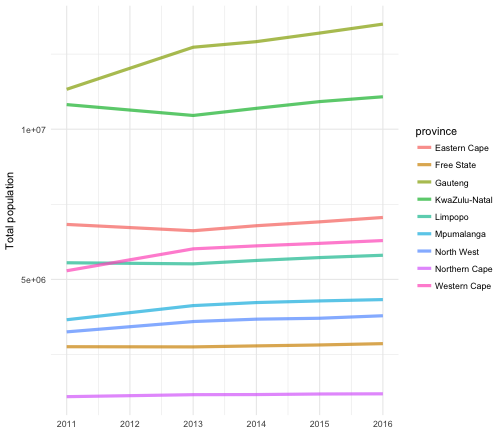
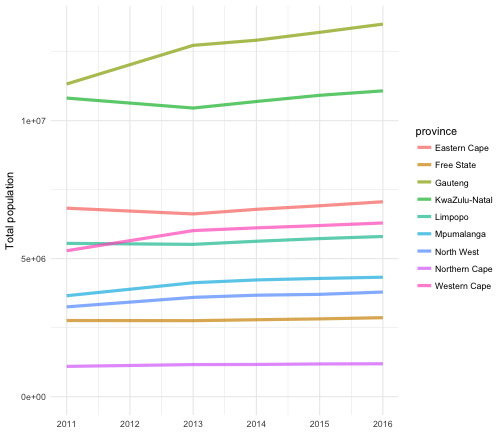
Fix up plots, README, DESCRIPTION

diff --git a/README.md b/README.md
@@ -37,7 +37,8 @@ There are two datasets in this package. The first one, `population`, contains to
 library(ggplot2)
 
 ggplot(population, aes(year, total, color = province)) + 
-    geom_line(size = 1.5, alpha = 0.7) +
+    geom_line(size = 1.5, alpha = 0.7) + 
+    expand_limits(y = 0) +
     labs(x = NULL, y = "Total population")
 ```
 
@@ -47,6 +48,8 @@ The second dataset, `mortality`, contains number of deaths due to various causes
 
 
 ```r
+library(dplyr)
+
 mortality %>%
     count(indicator, sort = TRUE)
 #> # A tibble: 18 × 2
@@ -82,6 +85,7 @@ mortality %>%
            province %in% c("Gauteng", "KwaZulu-Natal", "Eastern Cape")) %>%
     ggplot(aes(year, deaths, color = province)) +
     geom_line(size = 1.5, alpha = 0.7) +
+    expand_limits(y = 0) +
     labs(x = NULL, y = "Number of deaths")
 ```
 
